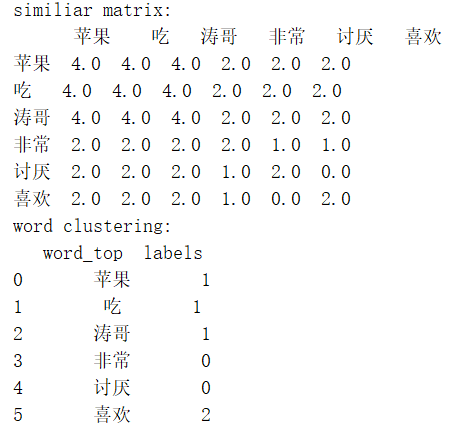
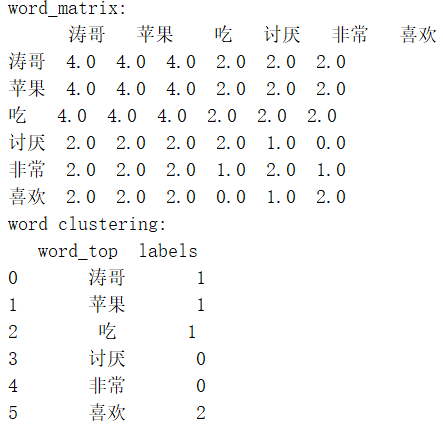
。

diff --git a/README.md b/README.md
@@ -130,7 +130,7 @@ model.load_vocab_word2vec(DIR + '/TextClustering/models/vocab_word2vec.model')
 
 # creat wordmatrix
 model.word2matrix(method='frequency', top=200)
-print('similiar matrix:\n',
+print('word_matrix:\n',
       pd.DataFrame(model.word_matrix,
                    columns=model.word_top,
                    index=model.word_top))
